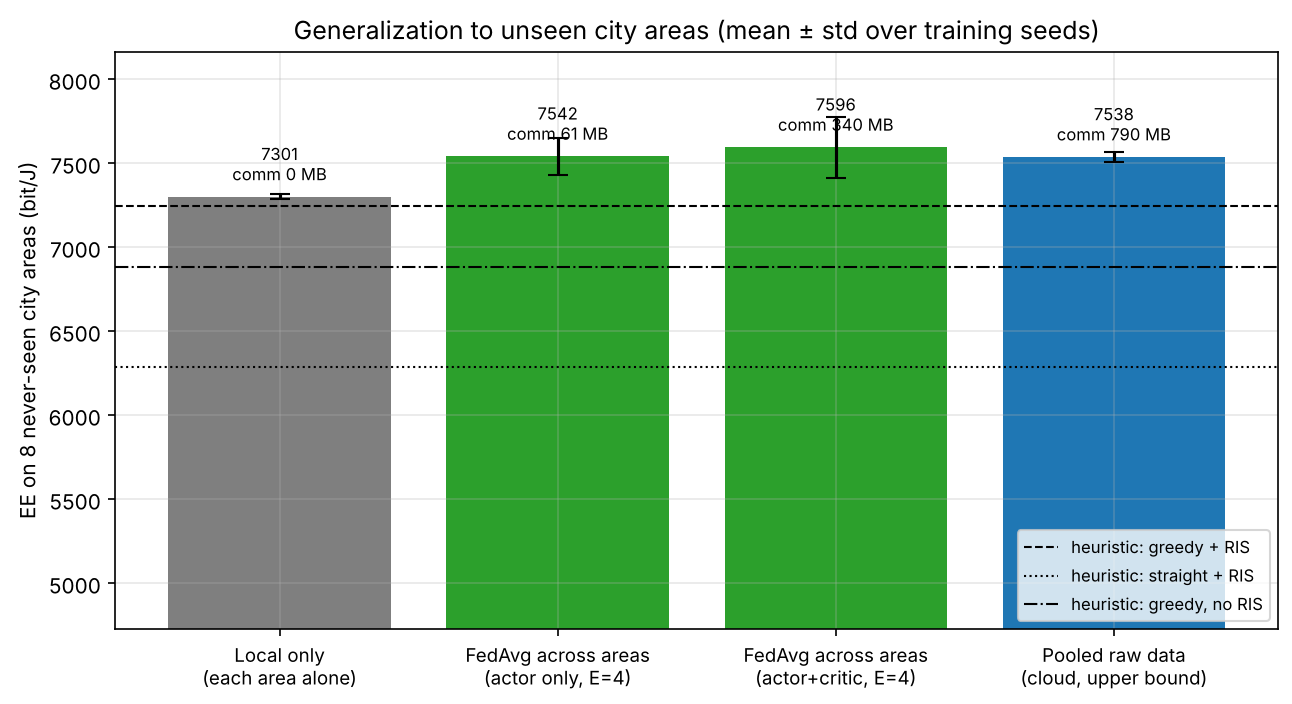
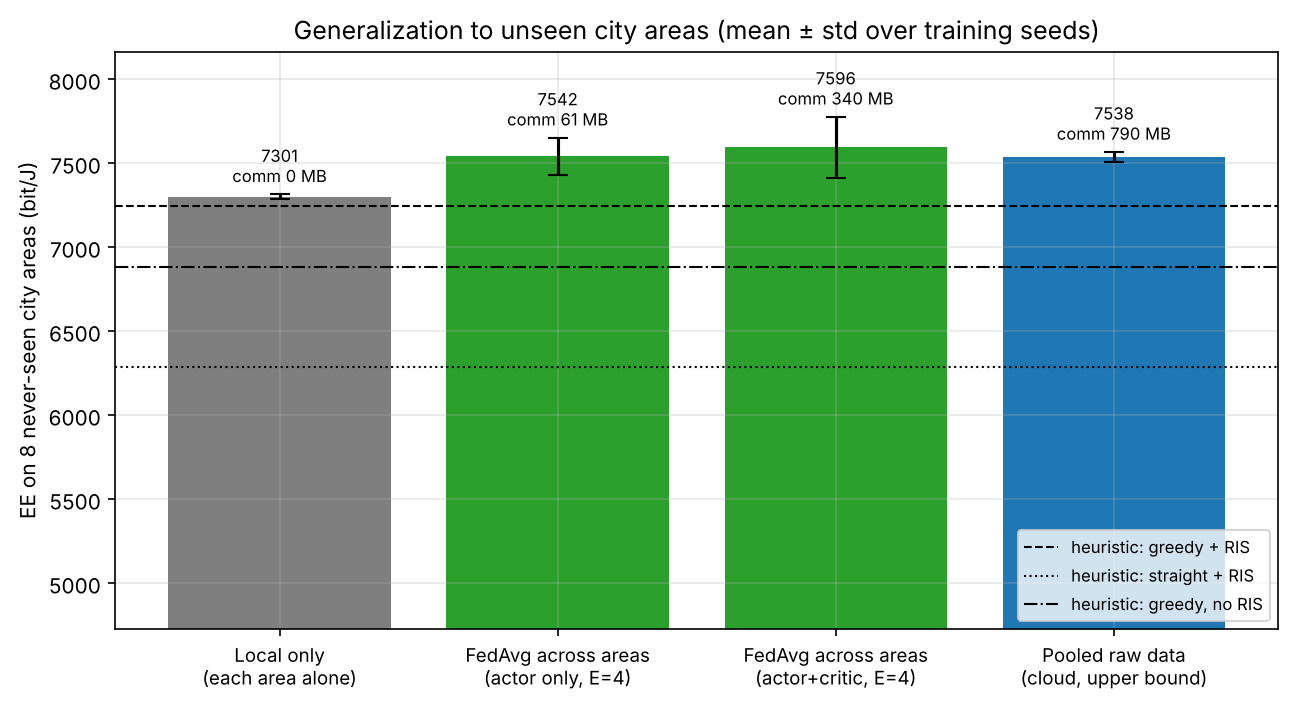
v9: multi-area figure label placement; eval interval multiple of 8
Claude-Session: https://claude.ai/code/session_019AT5ngwrNSJJrMB93Av9qi

diff --git a/v9/plots.py b/v9/plots.py
@@ -282,7 +282,8 @@ def plot_multiarea():
                          for r in rows])
     for b, r in zip(bars, rows):
         ax.annotate(f"{r['test_ee_mean']:.0f}\ncomm {r['comm_MB_mean']:.0f} MB", (b.get_x() + b.get_width() / 2,
-                    b.get_height()), textcoords="offset points", xytext=(0, 8), ha="center", fontsize=8)
+                    b.get_height() + r["test_ee_std"]), textcoords="offset points", xytext=(0, 4),
+                    ha="center", va="bottom", fontsize=8)
     names = {("greedy", "timeshare"): "greedy + RIS", ("straight", "timeshare"): "straight + RIS",
              ("greedy", "none"): "greedy, no RIS"}
     for (k, v), ls in zip([(k, base[k]) for k in names if k in base], ["--", ":", "-."]):

diff --git a/v9/multiarea.py b/v9/multiarea.py
@@ -38,7 +38,7 @@ class MultiAreaConfig:
     E: int = 4
     fed_parts: str = "actor"             # fedavg: "actor" (critics stay at each GCS) | "both"
     seed: int = 0
-    eval_every: int = 250                # in per-area episodes
+    eval_every: int = 200                # in per-area episodes (multiple of episodes_per_update)
     n_val_eps: int = 3                   # episodes per validation area
     n_test_eps: int = 5                  # episodes per test area
     train_areas: tuple = TRAIN_AREAS
